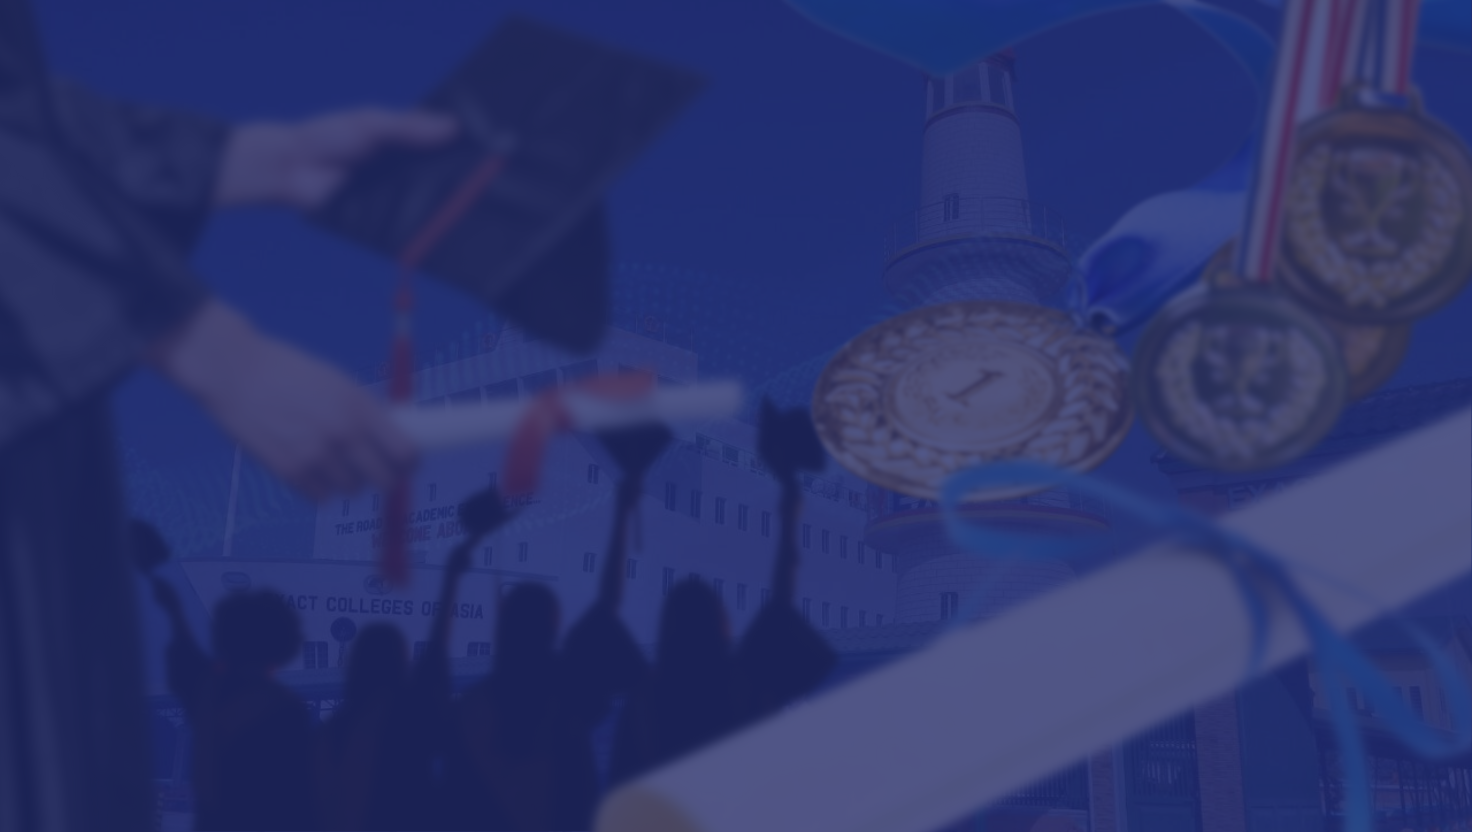
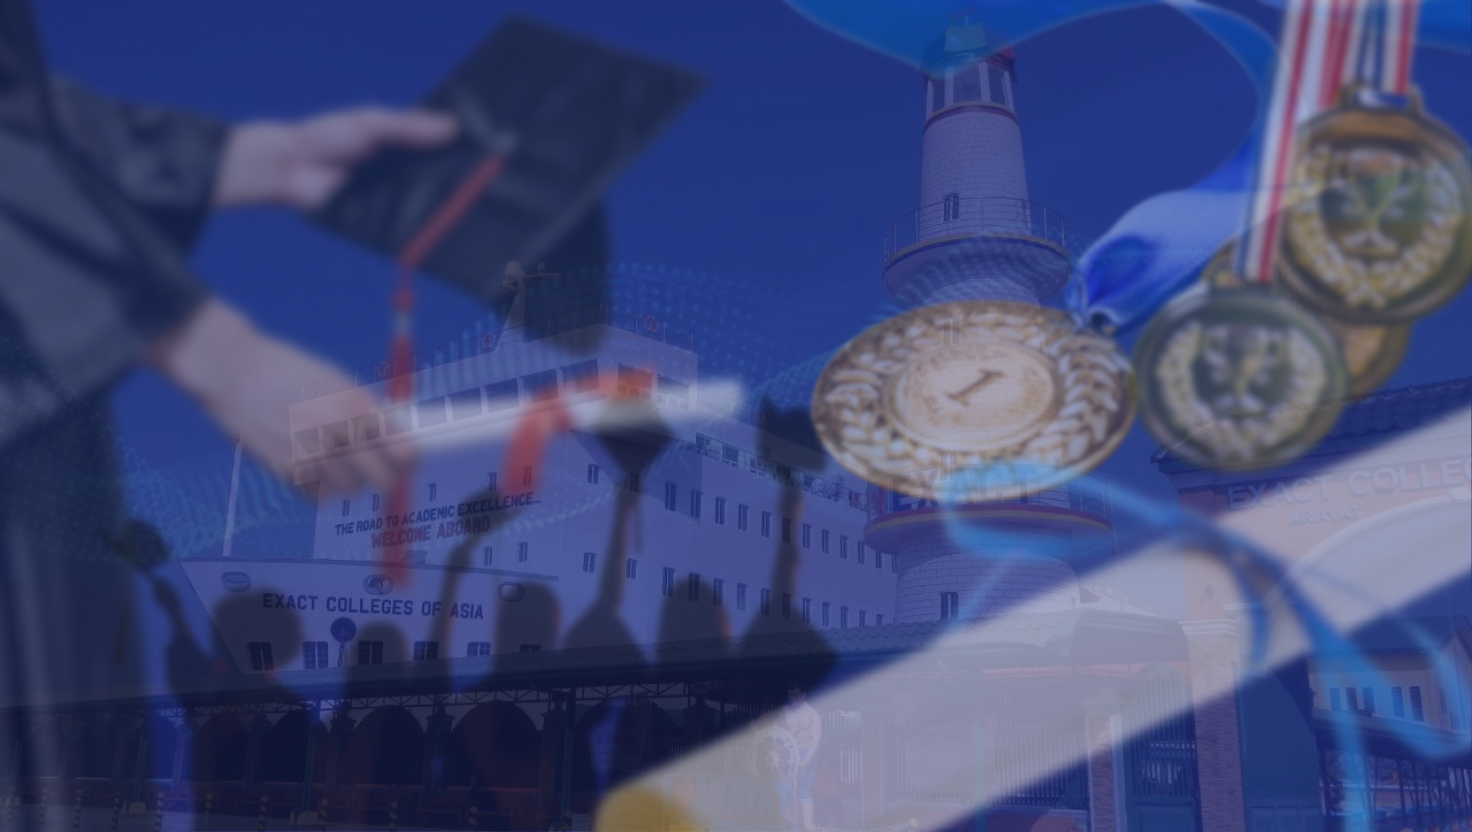
misha

diff --git a/LandingPage/LandingPage.css b/LandingPage/LandingPage.css
@@ -84,7 +84,7 @@
 }
 
 .page-transition-out::before {
-  content: '';
+  content: "";
   position: fixed;
   top: 0;
   left: 0;
@@ -105,7 +105,7 @@
 }
 
 .page-transition-out::after {
-  content: '';
+  content: "";
   position: fixed;
   top: 0;
   left: 0;
@@ -559,9 +559,10 @@ header.fading {
   left: 0;
   width: 100%;
   height: 100%;
- background: url("https://ECADYB.b-cdn.net/img/ECABG.jpg") center center/cover
-    no-repeat;
+  background: url("https://ECADYB.b-cdn.net/img/BGGRALLERY2.0.png") center
+    center/cover no-repeat;
   pointer-events: none;
+  filter: blur(6px);
 }
 .yearbooks-section .section-title {
   position: relative;
@@ -639,7 +640,7 @@ header.fading {
   font-weight: bold;
   margin-bottom: 0.5rem;
   text-shadow: 0 4px 8px rgba(0, 0, 0, 0.7);
-  font-family: 'arial-black', sans-serif;
+  font-family: "arial-black", sans-serif;
   text-transform: uppercase;
   letter-spacing: 2px;
 }
@@ -650,7 +651,7 @@ header.fading {
   margin-bottom: 1.5rem;
   text-shadow: 0 2px 6px rgba(0, 0, 0, 0.6);
   color: #fcda15;
-  font-family: 'Segoe UI', sans-serif;
+  font-family: "Segoe UI", sans-serif;
 }
 
 .yearbook-intro-content .yearbook-description {
@@ -659,7 +660,7 @@ header.fading {
   margin-bottom: 2rem;
   text-shadow: 0 2px 4px rgba(0, 0, 0, 0.5);
   color: #e0e7ff;
-  font-family: 'Segoe UI', sans-serif;
+  font-family: "Segoe UI", sans-serif;
 }
 
 .yearbook-item {
@@ -672,14 +673,14 @@ header.fading {
   background-position: center;
   background-size: cover;
   border-radius: 15px;
-  box-shadow: 0 8px 20px rgba(0,0,0,0.3);
+  box-shadow: 0 8px 20px rgba(0, 0, 0, 0.3);
   transition: transform 0.3s ease, box-shadow 0.3s ease;
   cursor: pointer;
 }
 
 .yearbook-item:hover {
   transform: translateY(-10px) scale(1.05);
-  box-shadow: 0 15px 30px rgba(0,0,0,0.4);
+  box-shadow: 0 15px 30px rgba(0, 0, 0, 0.4);
 }
 
 .yearbook-item.active {
@@ -746,13 +747,27 @@ header.fading {
 }
 
 /* Position all 7 yearbook items at the bottom with gaps */
-.yearbook-item:nth-child(1) { left: calc(50% - 600px); }
-.yearbook-item:nth-child(2) { left: calc(50% - 420px); }
-.yearbook-item:nth-child(3) { left: calc(50% - 240px); }
-.yearbook-item:nth-child(4) { left: calc(50% - 60px); }
-.yearbook-item:nth-child(5) { left: calc(50% + 120px); }
-.yearbook-item:nth-child(6) { left: calc(50% + 300px); }
-.yearbook-item:nth-child(7) { left: calc(50% + 480px); }
+.yearbook-item:nth-child(1) {
+  left: calc(50% - 600px);
+}
+.yearbook-item:nth-child(2) {
+  left: calc(50% - 420px);
+}
+.yearbook-item:nth-child(3) {
+  left: calc(50% - 240px);
+}
+.yearbook-item:nth-child(4) {
+  left: calc(50% - 60px);
+}
+.yearbook-item:nth-child(5) {
+  left: calc(50% + 120px);
+}
+.yearbook-item:nth-child(6) {
+  left: calc(50% + 300px);
+}
+.yearbook-item:nth-child(7) {
+  left: calc(50% + 480px);
+}
 
 .yearbook-content {
   width: 100%;
@@ -766,19 +781,24 @@ header.fading {
   align-items: center;
   text-align: center;
   padding: 1rem 0.5rem;
-  background: linear-gradient(to top, rgba(0,0,0,0.8) 0%, rgba(0,0,0,0.3) 50%, transparent 100%);
+  background: linear-gradient(
+    to top,
+    rgba(0, 0, 0, 0.8) 0%,
+    rgba(0, 0, 0, 0.3) 50%,
+    transparent 100%
+  );
   border-radius: 15px;
   color: white;
   opacity: 1;
 }
 
 .yearbook-content .yearbook-title {
-  font-family: 'arial-black';
+  font-family: "arial-black";
   text-transform: uppercase;
   font-size: 0.9rem;
   margin-bottom: 0.5rem;
   font-weight: bold;
-  text-shadow: 0 2px 4px rgba(0,0,0,0.8);
+  text-shadow: 0 2px 4px rgba(0, 0, 0, 0.8);
 }
 
 .yearbook-content .yearbook-description {
@@ -789,39 +809,51 @@ header.fading {
   display: none;
 }
 
-
-
-
-
 /* Responsive Design for Yearbook Slider */
 @media (width > 650px) and (width < 900px) {
   .yearbook-main-title {
     font-size: 2.8rem;
   }
-  
+
   .yearbook-subtitle {
     font-size: 1.6rem;
   }
-  
+
   .yearbook-intro-content .yearbook-description {
     font-size: 1rem;
   }
-  
+
   .yearbook-item {
     width: 120px;
     height: 160px;
     bottom: 60px;
   }
-  
-  .yearbook-item:nth-child(1) { left: calc(50% - 420px); }
-  .yearbook-item:nth-child(2) { left: calc(50% - 280px); }
-  .yearbook-item:nth-child(3) { left: calc(50% - 140px); }
-  .yearbook-item:nth-child(4) { left: calc(50% - 82px); }
-  .yearbook-item:nth-child(5) { left: calc(50% + 82px); }
-  .yearbook-item:nth-child(6) { left: calc(50% + 222px); }
-  .yearbook-item:nth-child(7) { left: calc(50% + 362px); }
-  
-  .yearbook-content .yearbook-title { font-size: 0.8rem; }
+
+  .yearbook-item:nth-child(1) {
+    left: calc(50% - 420px);
+  }
+  .yearbook-item:nth-child(2) {
+    left: calc(50% - 280px);
+  }
+  .yearbook-item:nth-child(3) {
+    left: calc(50% - 140px);
+  }
+  .yearbook-item:nth-child(4) {
+    left: calc(50% - 82px);
+  }
+  .yearbook-item:nth-child(5) {
+    left: calc(50% + 82px);
+  }
+  .yearbook-item:nth-child(6) {
+    left: calc(50% + 222px);
+  }
+  .yearbook-item:nth-child(7) {
+    left: calc(50% + 362px);
+  }
+
+  .yearbook-content .yearbook-title {
+    font-size: 0.8rem;
+  }
 }
 
 @media (width < 650px) {
@@ -829,35 +861,51 @@ header.fading {
     padding: 1rem;
     max-width: 90%;
   }
-  
+
   .yearbook-main-title {
     font-size: 2.2rem;
   }
-  
+
   .yearbook-subtitle {
     font-size: 1.3rem;
   }
-  
+
   .yearbook-intro-content .yearbook-description {
     font-size: 0.9rem;
   }
-  
+
   .yearbook-item {
     width: 100px;
     height: 130px;
     bottom: 40px;
   }
-  
-  .yearbook-item:nth-child(1) { left: calc(50% - 350px); }
-  .yearbook-item:nth-child(2) { left: calc(50% - 233px); }
-  .yearbook-item:nth-child(3) { left: calc(50% - 117px); }
-  .yearbook-item:nth-child(4) { left: calc(50% - 66px); }
-  .yearbook-item:nth-child(5) { left: calc(50% + 66px); }
-  .yearbook-item:nth-child(6) { left: calc(50% + 183px); }
-  .yearbook-item:nth-child(7) { left: calc(50% + 300px); }
-  
-  .yearbook-content .yearbook-title { font-size: 0.7rem; }
-  
+
+  .yearbook-item:nth-child(1) {
+    left: calc(50% - 350px);
+  }
+  .yearbook-item:nth-child(2) {
+    left: calc(50% - 233px);
+  }
+  .yearbook-item:nth-child(3) {
+    left: calc(50% - 117px);
+  }
+  .yearbook-item:nth-child(4) {
+    left: calc(50% - 66px);
+  }
+  .yearbook-item:nth-child(5) {
+    left: calc(50% + 66px);
+  }
+  .yearbook-item:nth-child(6) {
+    left: calc(50% + 183px);
+  }
+  .yearbook-item:nth-child(7) {
+    left: calc(50% + 300px);
+  }
+
+  .yearbook-content .yearbook-title {
+    font-size: 0.7rem;
+  }
+
   .yearbook-close-btn {
     top: 1rem;
     right: 1rem;

diff --git a/LandingPage/LandingPage.html b/LandingPage/LandingPage.html
@@ -293,11 +293,6 @@
             onclick="showYearbookBackground(this, 'https://ECADYB.b-cdn.net/img/BGGRALLERY.png')"
           >
             <div class="yearbook-content">
-              <h2 class="yearbook-title">"College Memories"</h2>
-              <p class="yearbook-description">
-                Discover the journey of academic excellence and personal growth
-                through our digital yearbook collection.
-              </p>
               <button class="yearbook-btn">Explore Now</button>
             </div>
           </li>
@@ -309,11 +304,6 @@
             onclick="showYearbookBackground(this, 'https://ECADYB.b-cdn.net/img/BGGRALLERY.png')"
           >
             <div class="yearbook-content">
-              <h2 class="yearbook-title">"Maritime Adventures"</h2>
-              <p class="yearbook-description">
-                Navigate through the memories of our Maritime Education program
-                and oceanic discoveries.
-              </p>
               <button class="yearbook-btn">View Gallery</button>
             </div>
           </li>
@@ -325,11 +315,6 @@
             onclick="showYearbookBackground(this, 'https://ECADYB.b-cdn.net/img/BGGRALLERY.png')"
           >
             <div class="yearbook-content">
-              <h2 class="yearbook-title">"Academic Excellence"</h2>
-              <p class="yearbook-description">
-                Celebrate the achievements and milestones of our diverse
-                academic programs.
-              </p>
               <button class="yearbook-btn">Discover More</button>
             </div>
           </li>
@@ -341,11 +326,6 @@
             onclick="showYearbookBackground(this, 'https://ECADYB.b-cdn.net/img/BGGRALLERY.png')"
           >
             <div class="yearbook-content">
-              <h2 class="yearbook-title">"Future Leaders"</h2>
-              <p class="yearbook-description">
-                Meet the graduates who are shaping tomorrow through innovation
-                and dedication.
-              </p>
               <button class="yearbook-btn">Meet Graduates</button>
             </div>
           </li>
@@ -357,11 +337,6 @@
             onclick="showYearbookBackground(this, 'https://ECADYB.b-cdn.net/img/BGGRALLERY.png')"
           >
             <div class="yearbook-content">
-              <h2 class="yearbook-title">"Campus Life"</h2>
-              <p class="yearbook-description">
-                Experience the vibrant campus culture and unforgettable moments
-                of student life.
-              </p>
               <button class="yearbook-btn">View Moments</button>
             </div>
           </li>
@@ -373,11 +348,6 @@
             onclick="showYearbookBackground(this, 'https://ECADYB.b-cdn.net/img/BGGRALLERY.png')"
           >
             <div class="yearbook-content">
-              <h2 class="yearbook-title">"Graduation Glory"</h2>
-              <p class="yearbook-description">
-                Witness the culmination of years of hard work and the beginning
-                of new adventures.
-              </p>
               <button class="yearbook-btn">See Graduates</button>
             </div>
           </li>
@@ -389,11 +359,6 @@
             onclick="showYearbookBackground(this, 'https://ECADYB.b-cdn.net/img/BGGRALLERY.png')"
           >
             <div class="yearbook-content">
-              <h2 class="yearbook-title">"Alumni Network"</h2>
-              <p class="yearbook-description">
-                Connect with our global network of successful alumni making a
-                difference worldwide.
-              </p>
               <button class="yearbook-btn">Connect Now</button>
             </div>
           </li>
